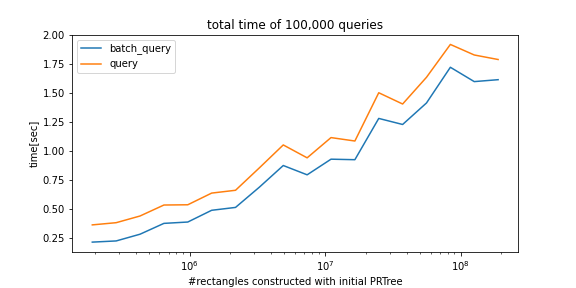
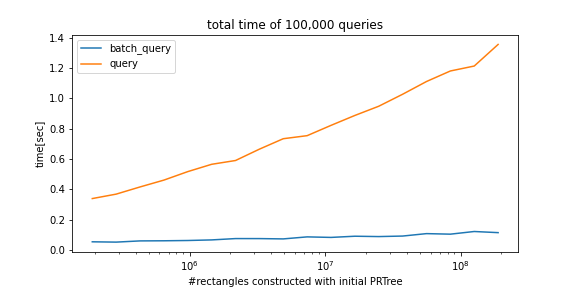
adopt std::thread

diff --git a/cpp/prtree.h b/cpp/prtree.h
@@ -1,5 +1,7 @@
 #pragma once
 #include <array>
+#include <cmath>
+#include <limits>
 #include <random>
 #include <vector>
 #include <unordered_map>
@@ -26,7 +28,6 @@ using pair = std::pair<T, U>;
 template<class T>
 using vec = std::vector<T>;
 static std::mt19937 rand_src(42);
-static unsigned int MAX_THREAD_DEPTH = 5;
 
 
 #   if defined __GNUC__
@@ -285,6 +286,7 @@ template<class T, int B=6>
 class PseudoPRTree : Uncopyable{
   public:
     std::unique_ptr<PseudoPRTreeNode<T, B>> root;
+    const int nthreads = std::thread::hardware_concurrency();
 
     PseudoPRTree(){
       root = std::make_unique<PseudoPRTreeNode<T, B>>();
@@ -313,7 +315,7 @@ class PseudoPRTree : Uncopyable{
           node->left = std::make_unique<PseudoPRTreeNode<T, B>>();
           auto node_left = node->left.get();
           X_left = vec<DataType<T>>(std::make_move_iterator(b), std::make_move_iterator(m));
-          if (depth < MAX_THREAD_DEPTH){
+          if (2 ** depth <= 2 * nthreads){
             std::thread t_left([&]{construct(node_left, X_left, depth + 1);});
             threads.push_back(std::move(t_left));
           } else {
@@ -324,7 +326,7 @@ class PseudoPRTree : Uncopyable{
           node->right = std::make_unique<PseudoPRTreeNode<T, B>>();
           auto node_right = node->right.get();
           X_right = vec<DataType<T>>(std::make_move_iterator(m), std::make_move_iterator(e));
-          if (depth < MAX_THREAD_DEPTH){
+          if (2 ** depth <= 2 * nthreads){
             std::thread t_right([&]{construct(node_right, X_right, depth + 1);});
             threads.push_back(std::move(t_right));
           } else {
